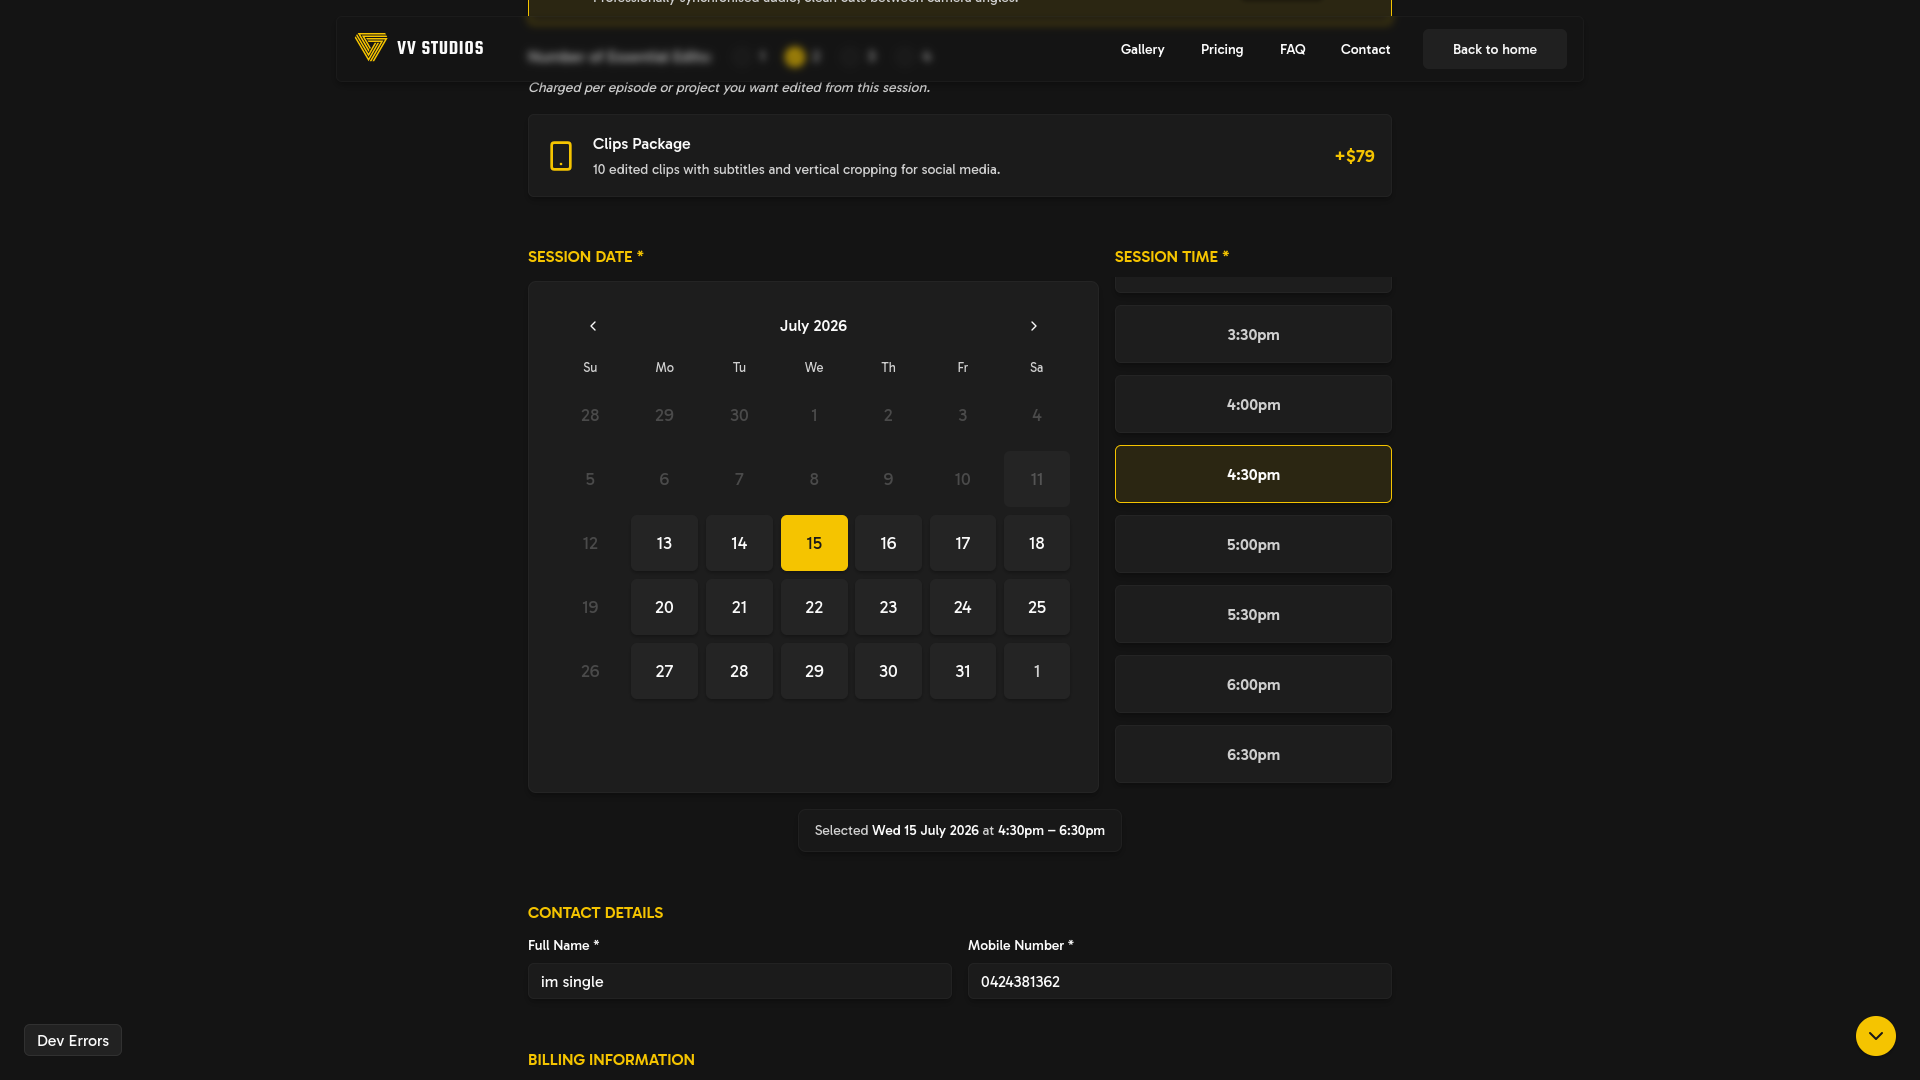
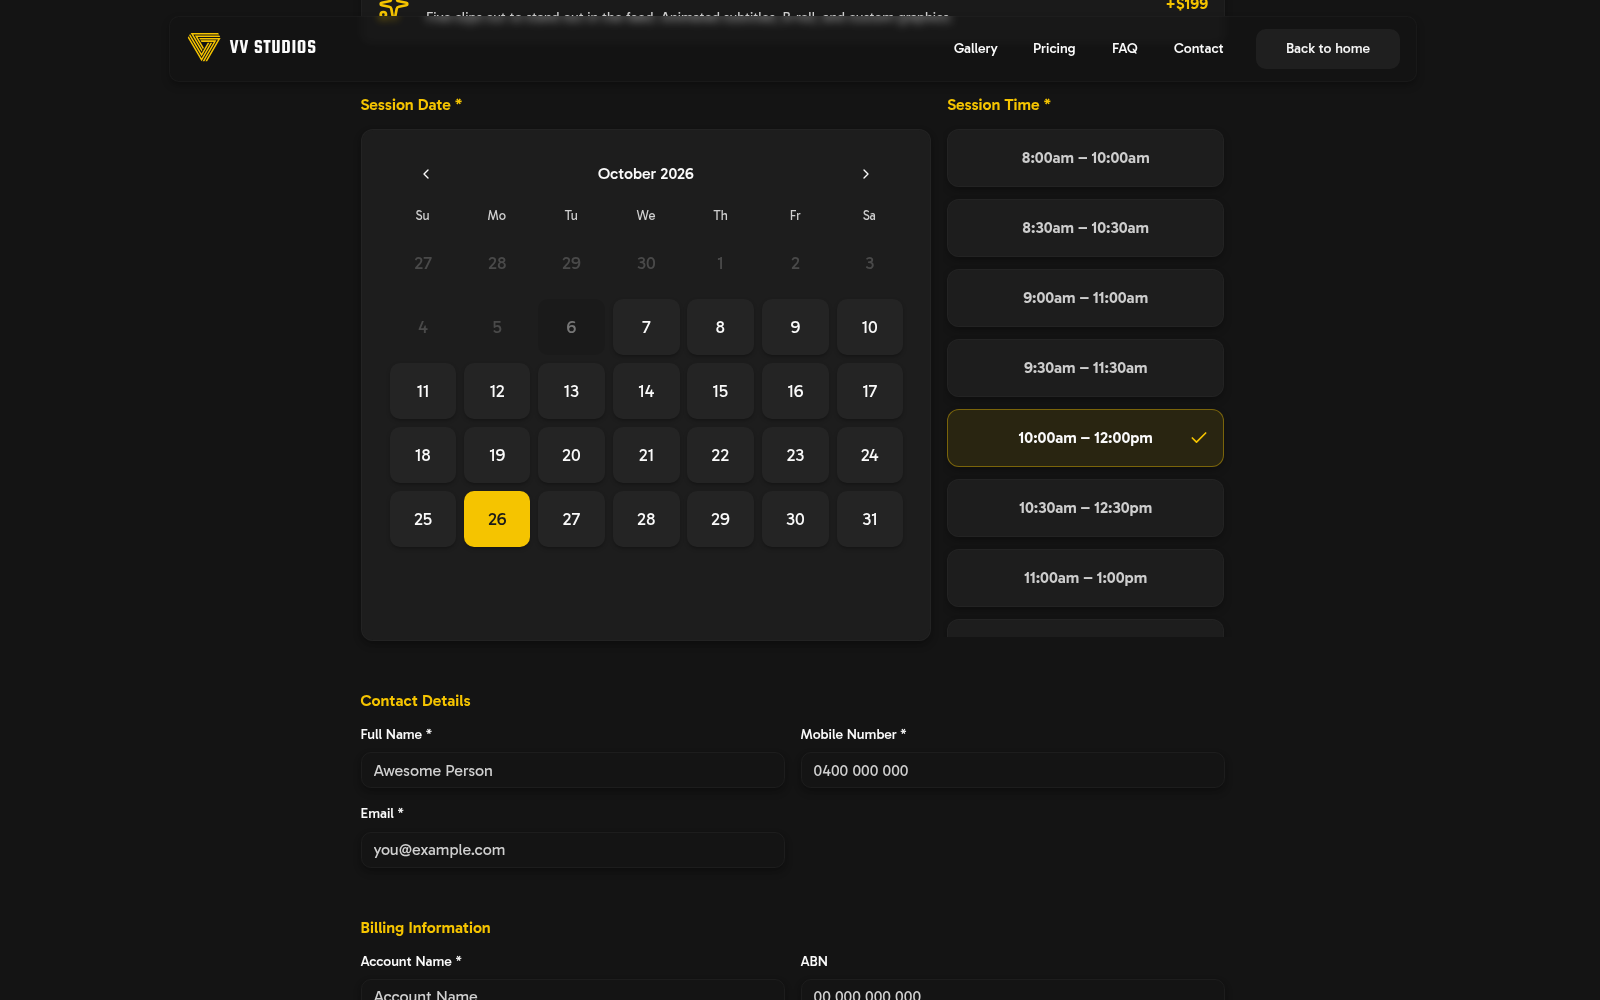
docs: Refreshed VV Studios portfolio copy and screenshots
- Replaced six screenshots with current booking and scheduling flows.
- Revised project copy, carousel captions, and image descriptions.
- Updated the project page title and meta description.

diff --git a/src/content/vvstudios/02-project-showcase.md b/src/content/vvstudios/02-project-showcase.md
@@ -9,31 +9,31 @@ section:
     background: black
     items:
       - image: ../../assets/vvstudios/booking.png
-        alt: VV Studios studio hire booking form
+        alt: VV Studios booking form with session duration and recording space options
         title: New Booking Form
-        description: Custom booking form designed to fit the business's unique requirements.
+        description: Customers choose their session length, recording space, and add-ons.
       - image: ../../assets/vvstudios/carousel/2-google-calendar-sync.png
-        alt: VV Studios booking form with calendar and time selection
+        alt: VV Studios booking calendar with a selected date and available session times
         title: Calendar Availability Sync
-        description: Create bookings synced with Google Calendar.
+        description: Available times reflect the studio's Google Calendar.
       - image: ../../assets/vvstudios/carousel/3-stripe.png
         alt: Stripe checkout for a VV Studios booking deposit
         title: Stripe Checkout for Booking Deposits
-        description: Stripe checkout integration enabling deposit payments for bookings.
+        description: Customers pay through Stripe without leaving the booking flow.
       - image: ../../assets/vvstudios/carousel/4-dashboard.png
         alt: VV Studios internal admin dashboard showing bookings
         title: Internal Admin Dashboard
-        description: Internal Admin dashboard to manage bookings, client communication, and deliverables.
+        description: Staff manage bookings, contact clients, and send edited footage.
       - image: ../../assets/vvstudios/carousel/5-invoice-email.png
-        alt: VV Studios booking confirmation and invoice email
+        alt: VV Studios customer receipt email with booking details and a rescheduling link
         title: Automated Email and Invoice Creation
-        description: Automated branded emails, invoices, and booking reminders.
+        description: Customers receive a branded email with their receipt and a private rescheduling link.
       - image: ../../assets/vvstudios/carousel/6-package-schedule.png
-        alt: VV Studios page for scheduling package sessions
+        alt: VV Studios package scheduling page showing one booked session and three sessions to schedule
         title: Package Bookings and Multi-Session Scheduling
-        description: Added package bookings and multi-session scheduling to meet a key business need.
+        description: Customers book a package, then choose dates for each session.
       - image: ../../assets/vvstudios/carousel/7-reschedule.png
-        alt: VV Studios page for rescheduling a booking
+        alt: VV Studios rescheduling page with existing booking details and a new date and time selected
         title: Convenient Rescheduling System
-        description: Implemented self-service rescheduling for customers to reduce admin work.
+        description: Customers change their session time through a private email link.
 ---

diff --git a/src/content/vvstudios/04-key-improvements.md b/src/content/vvstudios/04-key-improvements.md
@@ -9,30 +9,28 @@ section:
 
 ## Key Improvements
 
-### What improvements were made to the website?
+### What improvements did I make?
 
-#### Automation & Efficiency
+#### Automated a bunch of stuff
 
-- Developed custom booking form that accepts payments through Stripe
-- Automated calendar event creation using Google Calendar API
-- Automated email notifications through Resend
-- Automated invoice generation and session reminder emails created using react-email and react-pdf
-- Implemented a centralized admin dashboard backed by Convex for managing bookings and operations
-  - Allows admins to quickly view upcoming and past bookings
-  - Added lead tracking to streamline follow-up calls and conversions
-  - Enabled direct customer communication from the dashboard
-  - Integrated a fast workflow for sending edited footage and other deliverables
-  - Developed support for creating both standard and custom invoices
+- Custom booking form that accepts payments
+- Automated invoice generation and emailing
+- Automated calendar event creation in Google Calendar
+- Automated Google Drive folder setup for customers and editors upon booking
+- Implemented internal admin dashboard for managing bookings
+  - Allows admins to easily manage all bookings
+  - Track payments and create invoices
+  - Fast workflow for sending edited footage and other deliverables
 
-#### User Experience & Interface Design
+#### Made it look pretty and easy to use
 
-- Redesigned interface with a modern, cohesive visual system that better matches the company’s brand identity.
-- Continuously tested and iterated on the design to ensure it was successful and easy to navigate.
-- Created a dedicated landing page with a clear CTA to guide users toward the booking process. This made the conversion flow more direct, supporting business growth.
+- Redesigned UI with a modern look that matches the company’s brand identity.
+- Added a dedicated landing page with a clear CTA to guide users toward the booking process.
+- Tested and iterated on the UX to ensure it was easy to navigate.
 
-#### Performance Optimisation & Accessibility
+#### Made it accessible and fast
 
-- Added SEO optimisations to improve website visibility and search engine rankings.
-- Implemented responsive layouts so the website works well across all devices.
-- Improved website performance to deliver faster load times and a responsive experience. These changes made the site more satisfying to use and improved overall user satisfaction.
-- Provided support for full keyboard navigation so its easier for users to navigate the site using the keyboard.
+- SEO optimisations to improve website visibility and search engine rankings.
+- Responsive layouts so the website works well across all devices.
+- Improved website performance to deliver faster load times and a responsive experience.
+- Implemented accessibility features to ensure the website is accessible to all users.

diff --git a/src/content/vvstudios/03-previous-website.md b/src/content/vvstudios/03-previous-website.md
@@ -5,19 +5,17 @@ section:
     type: image
     image: ../../assets/vvstudios/old.png
     alt: Old VV Studios website
-    caption: Previous implementation of the website using a web builder
+    caption: The previous web builder site
 ---
 
 ## Previous Website
 
-### What problems did the previous website have?
+### What problems did the website have?
 
-- The previous setup depended on an embedded Google Form, which created a
-  poor user experience and difficult booking process.
-- The Google Form couldn't be customised. It wasn't possible to implement
-  custom layouts or create a cohesive design that aligned with the brand's visual
-  identity.
-- Payments were handled in a separate interface that often opened in a new
-  tab, disrupting the user journey and often led to failed bookings.
-- The overall website lacked clear direction. There was no dedicated landing
-  page or strong CTAs to guide users towards the booking process.
+The biggest issue was that the payment page redirected customers to a separate page, so they had to switch pages to complete their booking.
+
+It also meant the business had to rely on a separate service for scheduling and payments, which would have cost around $960 a year. Because the booking form and payment were on different pages, it was difficult to keep the customer data together. Customers had to complete two separate steps in two different places just to make a booking.
+
+There was also no way to automate emails or invoices, so the owner was spending a lot of time creating and sending them manually.
+
+I was able to connect the booking and payment into one place, automate the emails and invoicing, and have everything tracked automatically in an internal dashboard instead of a spreadsheet. This made the whole process easier to manage and significantly reduced the amount of manual work required.

diff --git a/src/content/vvstudios/01-project-overview.md b/src/content/vvstudios/01-project-overview.md
@@ -3,16 +3,15 @@
 
 ## Project Overview
 
-### Why was the VV Studios website rebuilt?
+### Why was the website rebuilt?
 
-I rebuilt the company website from scratch, whilst creating a custom booking
-system designed specifically for the business. The previous website used a web
-builder, which made it difficult to maintain and customise.
+The old site was a web builder that relied on a Google Form and a separate payment page. It was so horrible.
+So I built a new website and custom booking system so customers can choose a session and pay in one place.
 
 #### Tech Stack
 
 <ul class="project-badges" role="list">
-    <li>Tanstack Start</li>
+    <li>TanStack Start</li>
     <li>React</li>
     <li>TypeScript</li>
     <li>Convex</li>
@@ -22,5 +21,5 @@ builder, which made it difficult to maintain and customise.
     <li>Google Calendar API</li>
     <li>Google Drive API</li>
     <li>Tailwind</li>
-    <li>Framer Motion</li>
+    <li>Motion</li>
 </ul>

diff --git a/src/content/vvstudios/00-intro.md b/src/content/vvstudios/00-intro.md
@@ -1,7 +1,7 @@
 ---
 title: VV Studios
 project: Custom Booking System
-description: I rebuilt the company website from scratch. Created a custom booking system, and an internal dashboard to allow admins to track bookings, manage deliverables and easily communicate with clients.
+description: I completely rebuilt the company website. Also created a custom booking system, and an internal dashboard to allow admins and editors to track bookings and manage deliverables.
 coverImage: ../../assets/vvstudios/cover.png
 altText: VV Studios website cover image
 section:
